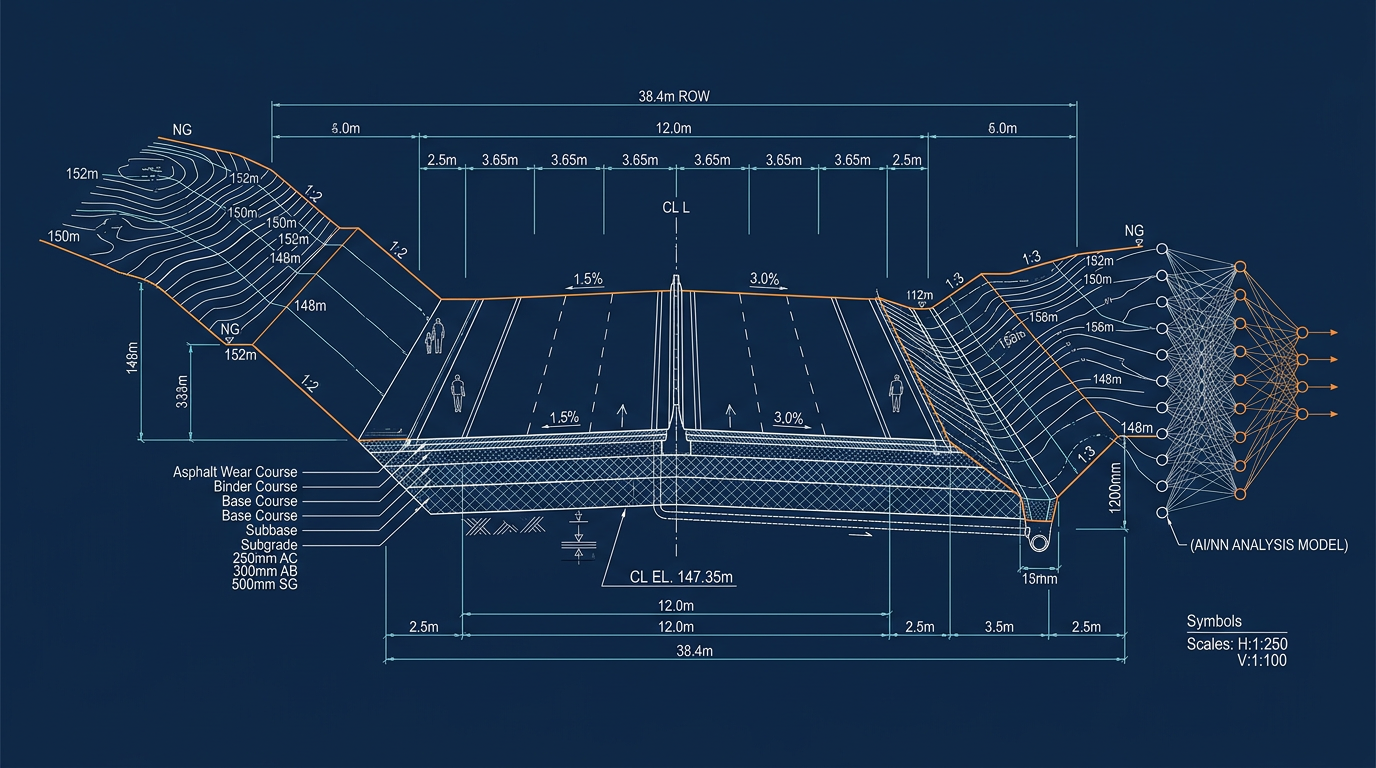
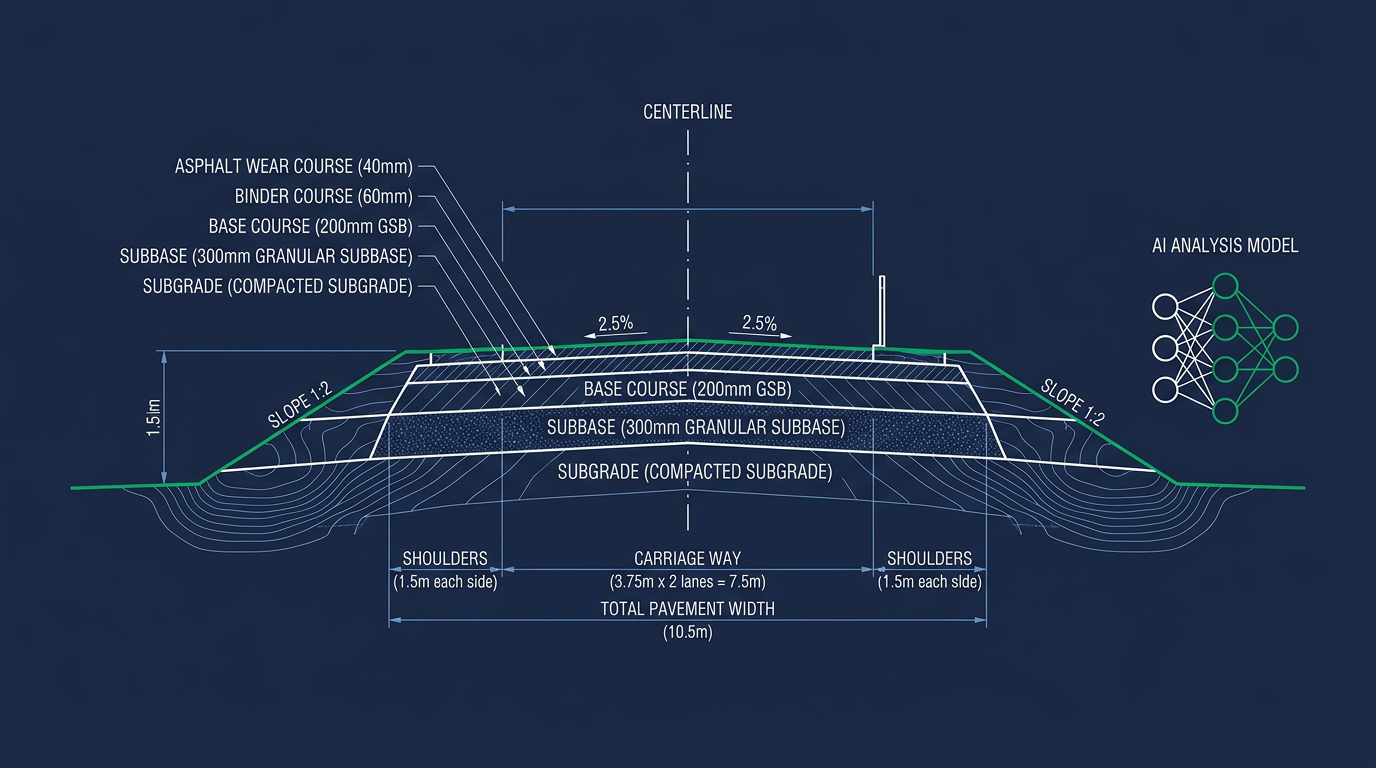
feat: update color variables and blueprint image
Updated primary color and accent variable to hex values; adjusted blueprint image.

V0-Chat-Id: pUjdvVH8QhB

Changed region(s): [[0.0312, 0.0938, 0.9688, 0.875], [0.75, 0.75, 0.7812, 0.7812], [0.375, 0.25, 0.4062, 0.2812]]

diff --git a/app/globals.css b/app/globals.css
@@ -42,18 +42,18 @@
   --card-foreground: oklch(0.22 0.04 255);
   --popover: oklch(0.995 0.003 85);
   --popover-foreground: oklch(0.22 0.04 255);
-  --primary: oklch(0.67 0.19 45);
+  --primary: #16a34a;
   --primary-foreground: oklch(0.99 0 0);
   --secondary: oklch(0.93 0.01 85);
   --secondary-foreground: oklch(0.22 0.04 255);
   --muted: oklch(0.94 0.008 85);
   --muted-foreground: oklch(0.47 0.03 255);
-  --accent: oklch(0.94 0.03 55);
-  --accent-foreground: oklch(0.45 0.14 45);
+  --accent: oklch(0.95 0.04 150);
+  --accent-foreground: oklch(0.45 0.12 150);
   --destructive: oklch(0.577 0.245 27.325);
   --border: oklch(0.88 0.012 85);
   --input: oklch(0.88 0.012 85);
-  --ring: oklch(0.67 0.19 45);
+  --ring: #16a34a;
   --ink: oklch(0.22 0.05 258);
   --ink-foreground: oklch(0.96 0.01 240);
   --radius: 0.5rem;
